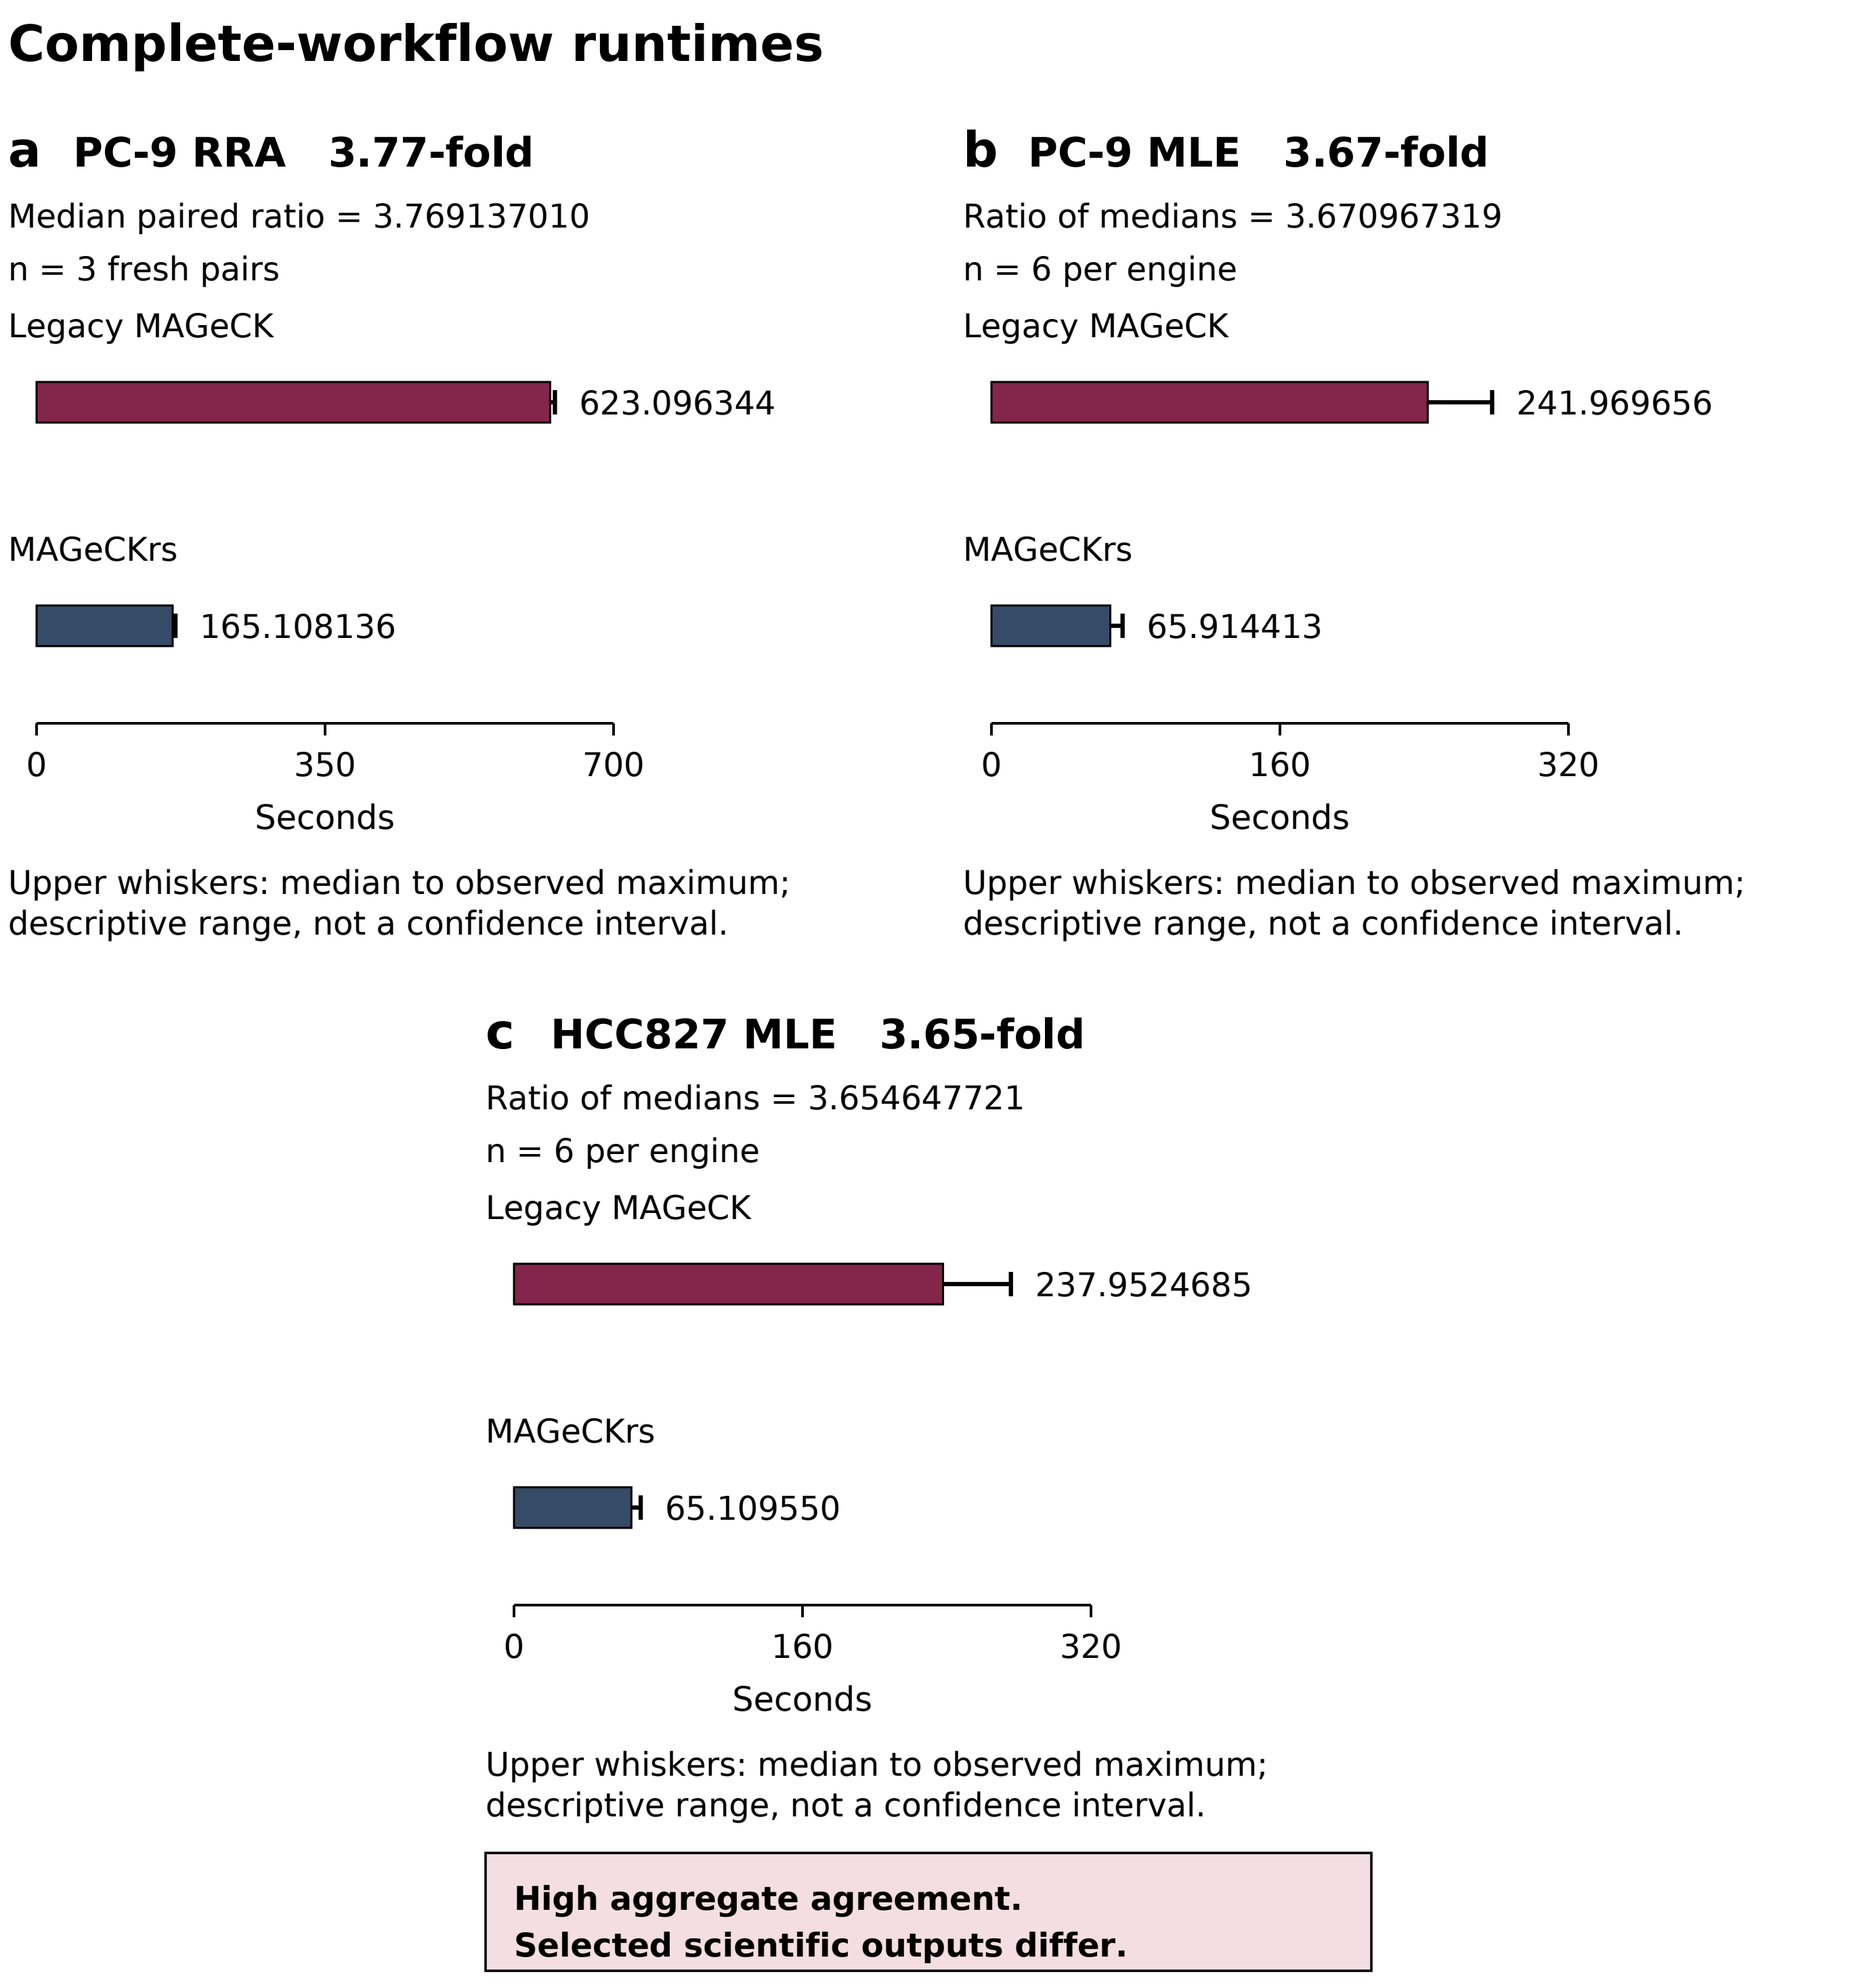
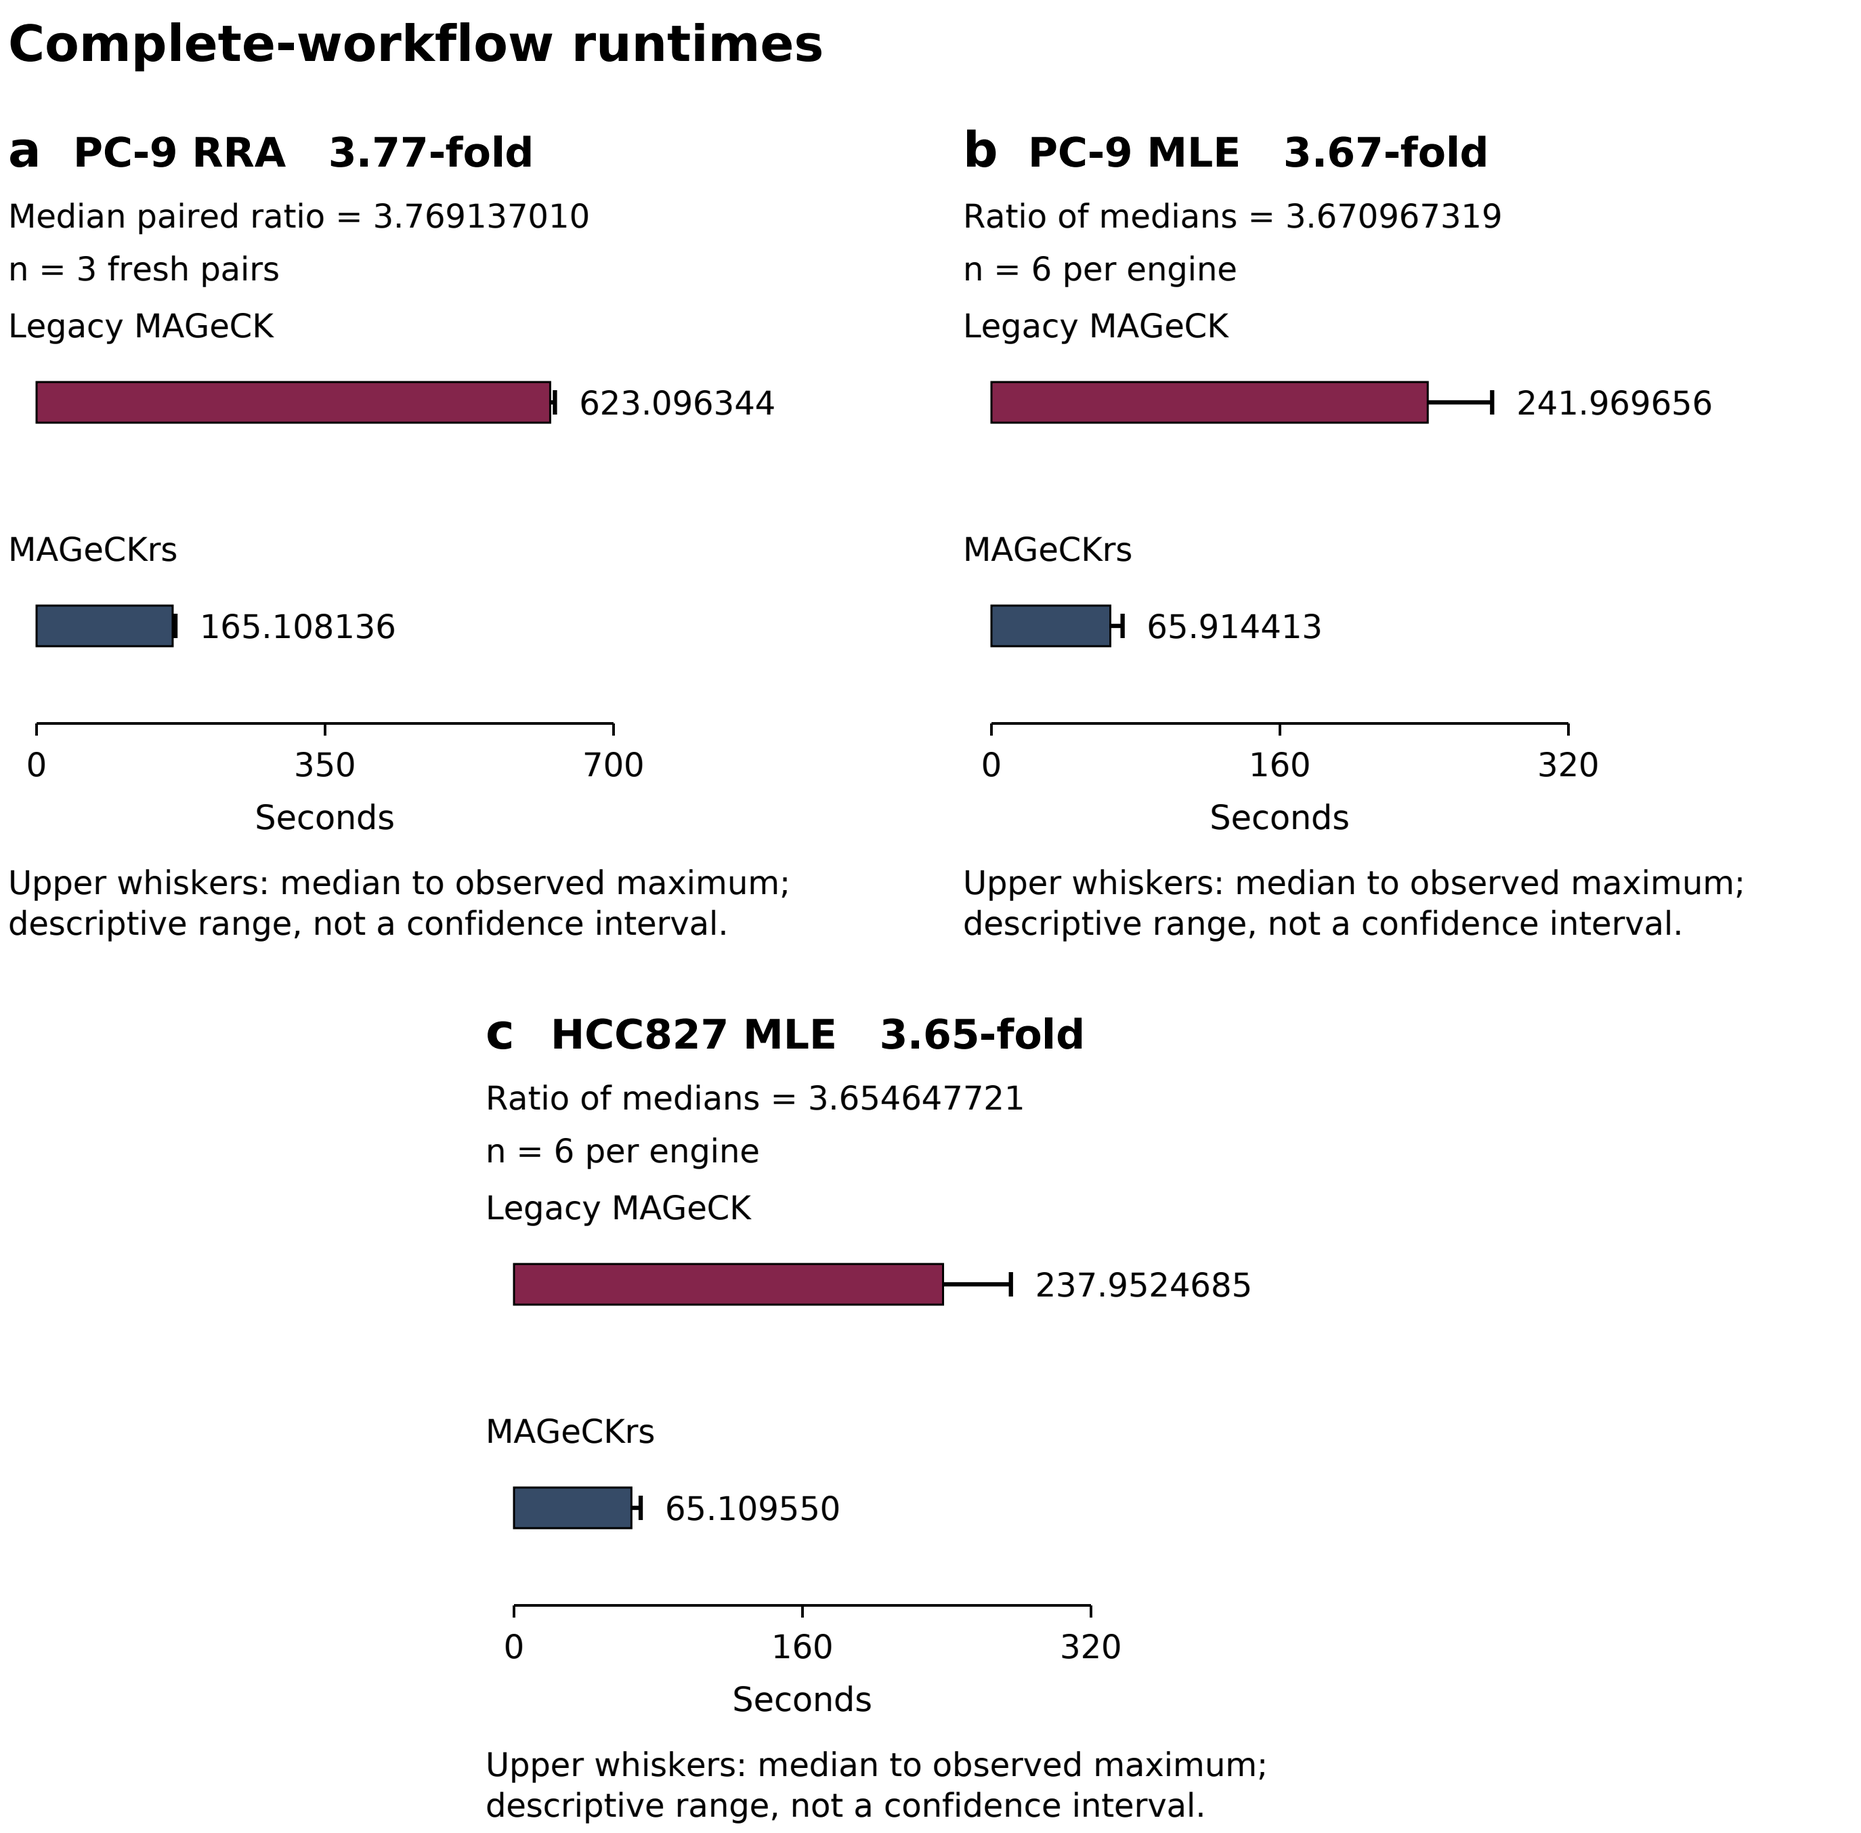
Exclude Figure 2c annotation box and retain caption qualification

diff --git a/README.md b/README.md
@@ -47,7 +47,7 @@ These component summaries are not stacked or additive, and this is not a complet
 
 **Complete-workflow runtimes**
 
-![Legacy MAGeCK versus MAGeCKrs median runtimes: PC-9 RRA 623.096344 versus 165.108136 s, runtime ratio 3.769137010; PC-9 MLE 241.969656 versus 65.914413 s, ratio 3.670967319; HCC827 MLE 237.9524685 versus 65.109550 s, ratio 3.654647721. HCC827 has high aggregate agreement, but selected scientific outputs differ.](docs/assets/mageckrs-complete-workflow-runtimes.png)
+![Legacy MAGeCK versus MAGeCKrs median runtimes: PC-9 RRA 623.096344 versus 165.108136 s, runtime ratio 3.769137010; PC-9 MLE 241.969656 versus 65.914413 s, ratio 3.670967319; HCC827 MLE 237.9524685 versus 65.109550 s, ratio 3.654647721. HCC827 showed high aggregate agreement, but selected scientific outputs differed.](docs/assets/mageckrs-complete-workflow-runtimes.png)
 
 *Figure 2a-c.* Median runtimes below compare **Legacy MAGeCK with MAGeCKrs**, in that order.
 Runtime ratios use Legacy MAGeCK divided by MAGeCKrs.
@@ -59,7 +59,7 @@ Runtime ratios use Legacy MAGeCK divided by MAGeCKrs.
 Upper whiskers extend from the median to the observed maximum.
 They are descriptive ranges, not confidence intervals.
 The benchmark campaigns are not pooled.
-**HCC827 shows high aggregate agreement, but selected scientific outputs differ.**
+**HCC827 showed high aggregate agreement, but selected scientific outputs differed.**
 These runtime observations do not establish universal speedups, timing significance, or identical RRA or MLE scientific outputs.
 See the [user manual](docs/MAGeCKrs_User_Manual.md) for workflow instructions and interpretation limits.
 
